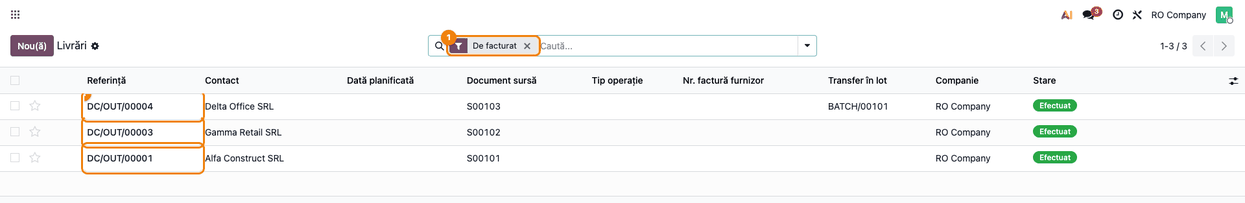
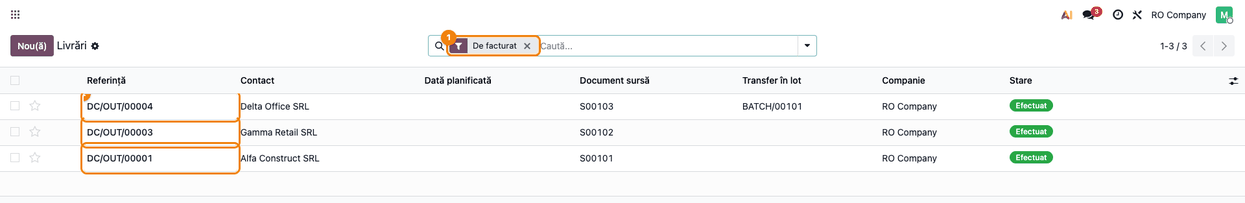
[19.0][FIX] deltatech_invoice_picking: hide the empty list columns on deliveries
In a list, invisible hides only the cells, so the delivery list showed
two empty columns (operation type and supplier invoice number). They are
now hidden with column_invisible, as on 20.0 (dhongu/deltatech#3913).
Screenshot 01 regenerated in RO and EN.

Assisted-by: Claude Opus 5.5

diff --git a/deltatech_invoice_picking/__manifest__.py b/deltatech_invoice_picking/__manifest__.py
@@ -4,7 +4,7 @@
 
 {
     "name": "Invoice Pickings",
-    "version": "19.0.1.0.18",
+    "version": "19.0.1.0.19",
     "author": "Terrabit, Dorin Hongu",
     "website": "https://www.terrabit.ro",
     "live_test_url": "https://www.terrabit.ro/demo/deltatech_invoice_picking?v=19.0",

diff --git a/deltatech_invoice_picking/readme/HISTORY.md b/deltatech_invoice_picking/readme/HISTORY.md
@@ -1,3 +1,8 @@
+## 19.0.1.0.19 (2026-11-03)
+
+- Fixed: the transfer list showed two empty columns on deliveries (the hidden operation type and
+  the supplier invoice number); they are now hidden as columns.
+
 ## 19.0.1.0.18 (2026-11-03)
 
 - Description aligned with the code: the to-invoice flag is set when the picking is validated, and storable lines of invoices created from pickings are locked.
